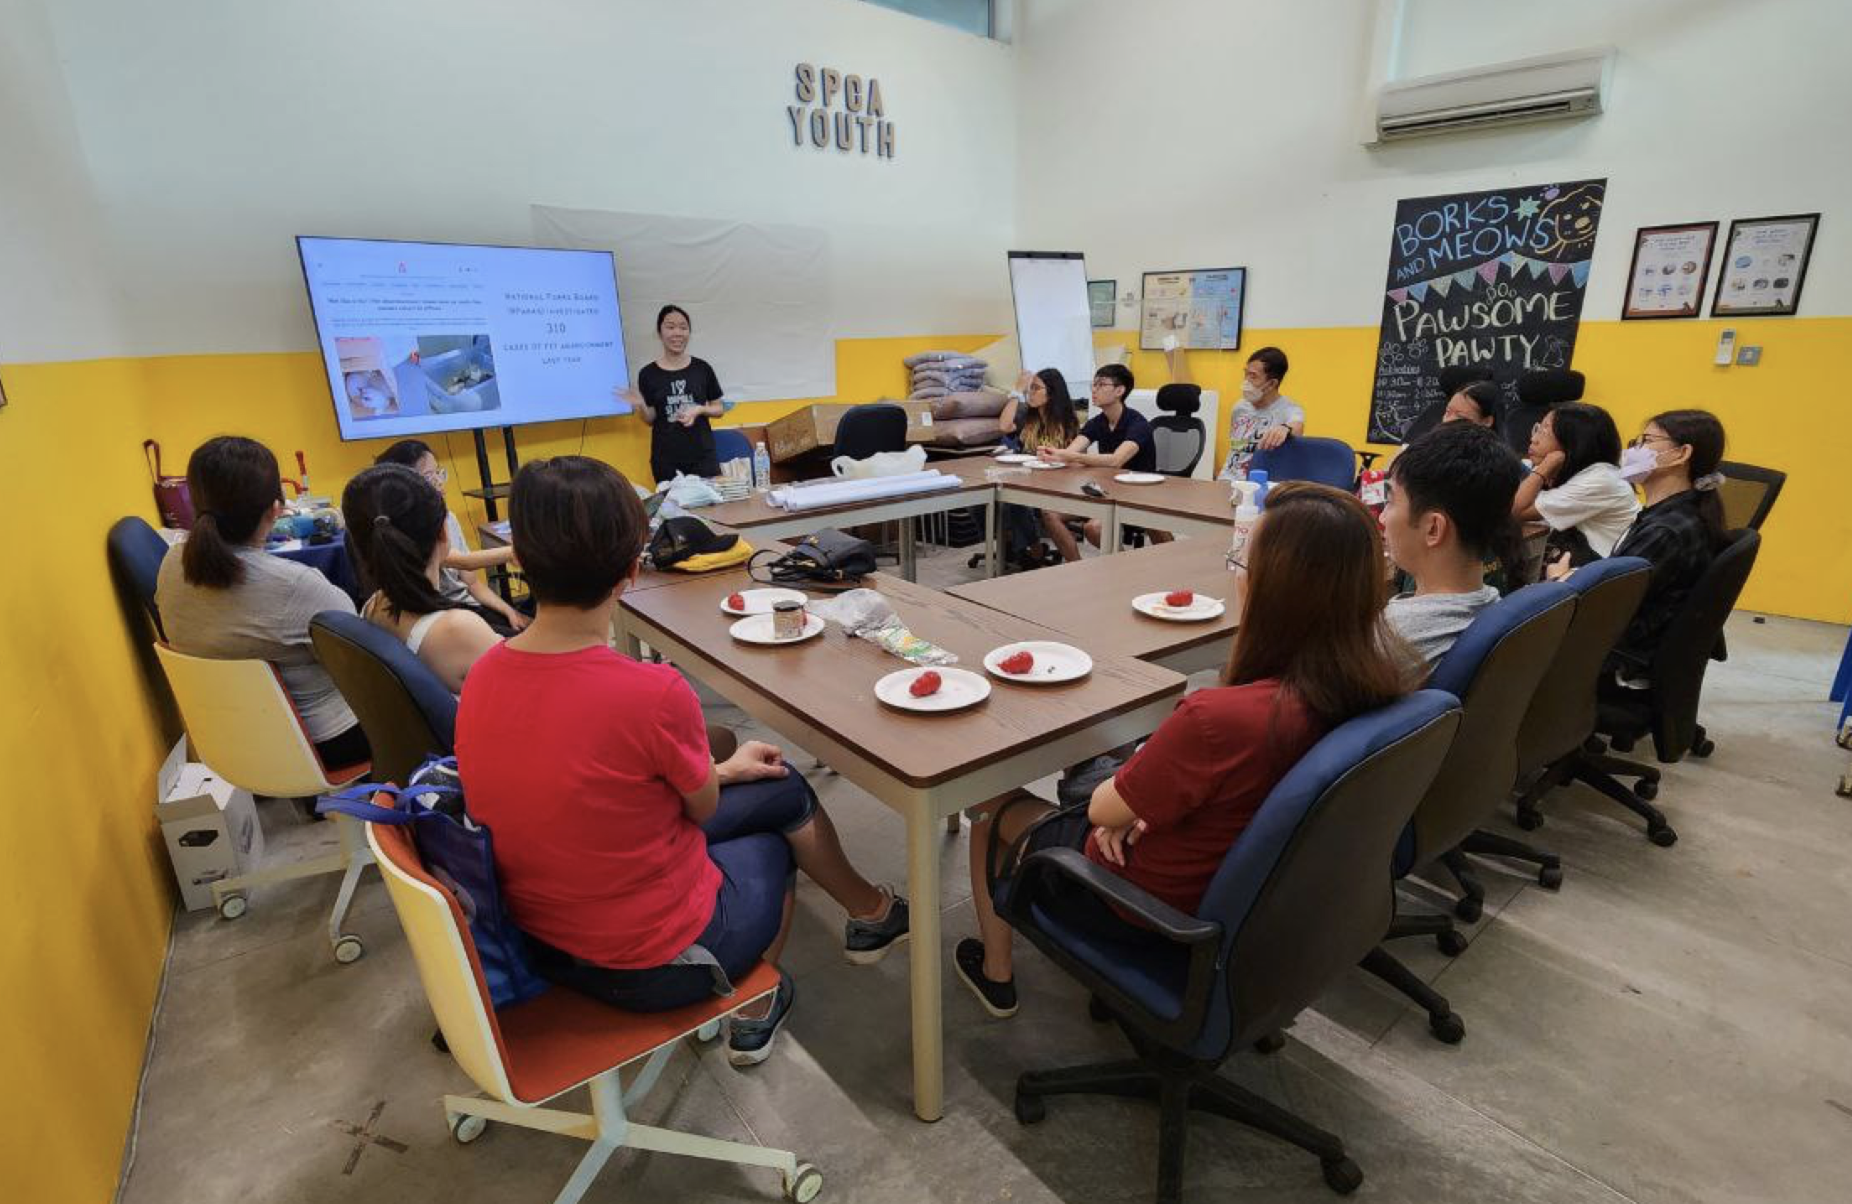
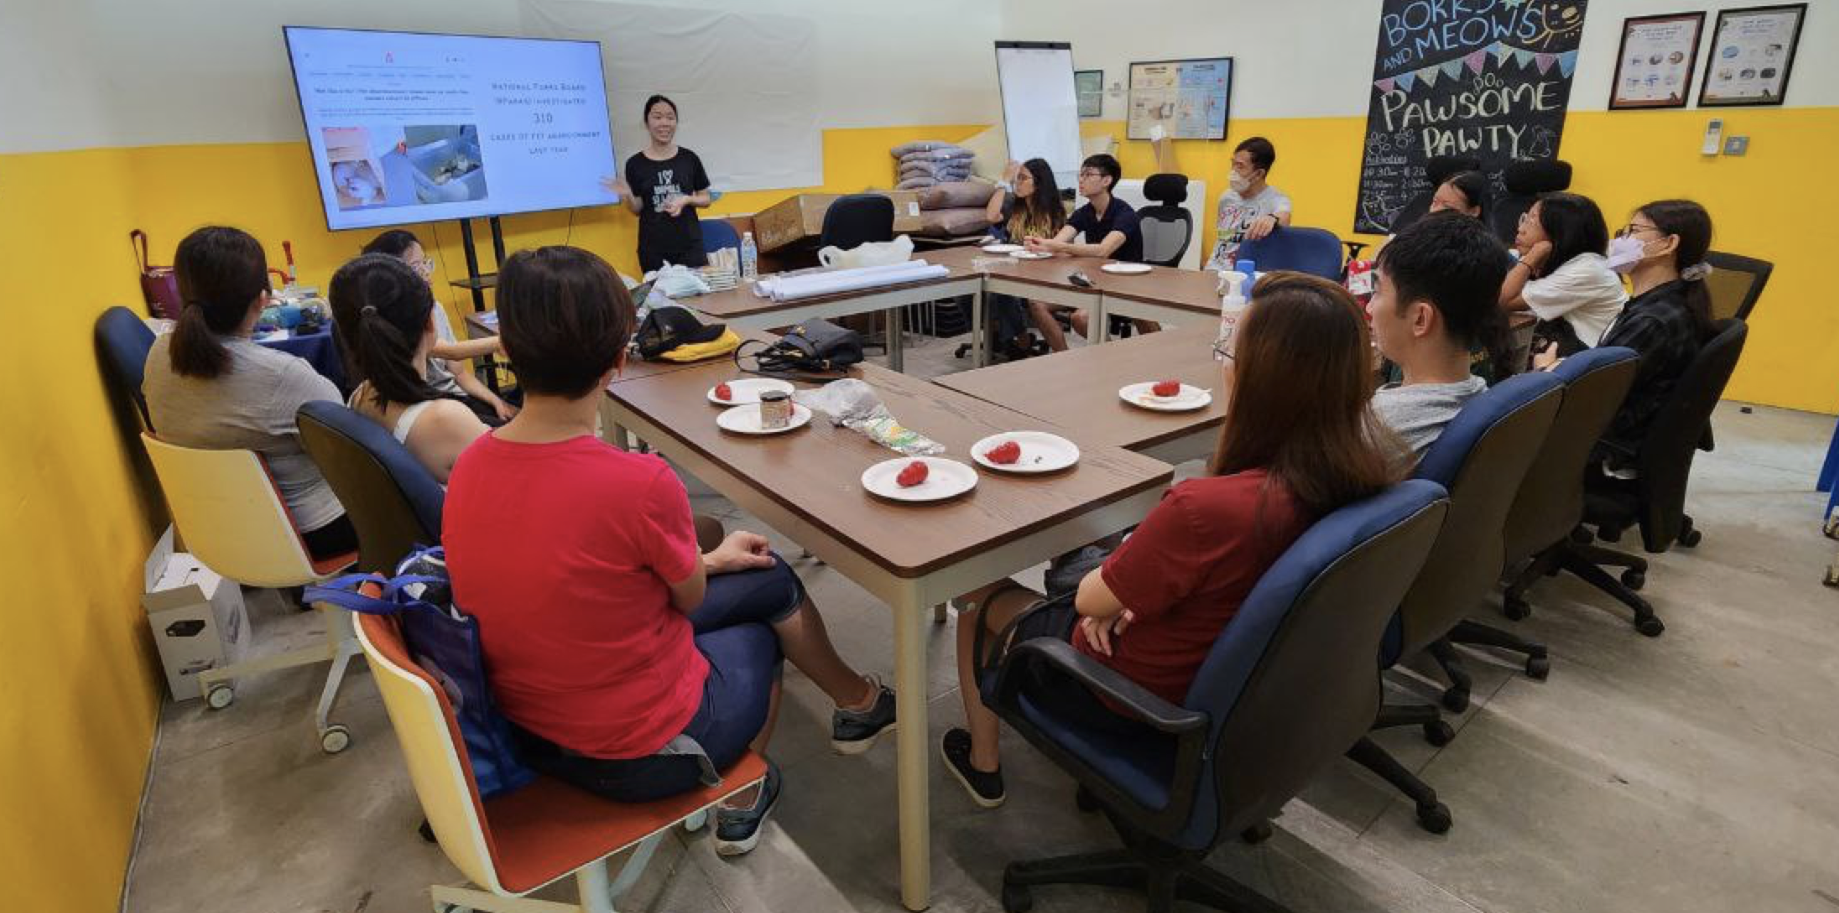
reduce picture size

diff --git a/assets/css/style.css b/assets/css/style.css
@@ -1295,7 +1295,16 @@ section {
 }
 
 .portfolio-details .portfolio-details-slider img {
-  width: 100%;
+  width: 80%;
+  display: block;
+  margin-left: auto;
+  margin-right: auto;
+}
+
+@media (min-width : 320px) and (max-width: 600px) {
+  .portfolio-details .portfolio-details-slider img {
+    width: 100%;
+  }
 }
 
 .portfolio-details .portfolio-details-slider .swiper-pagination {
